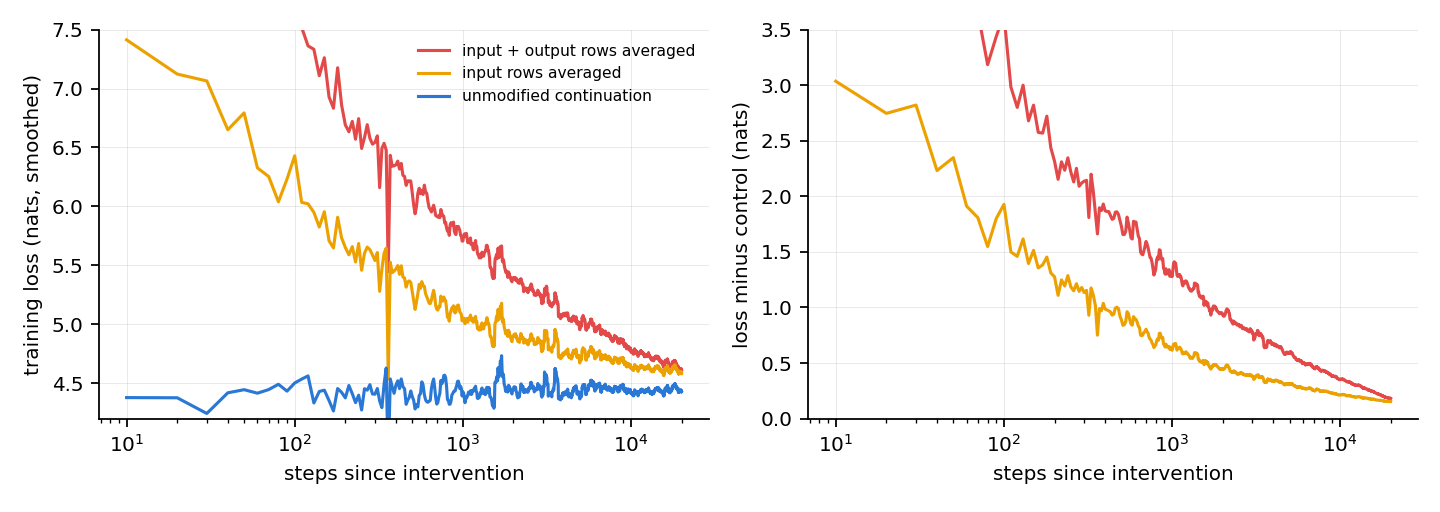
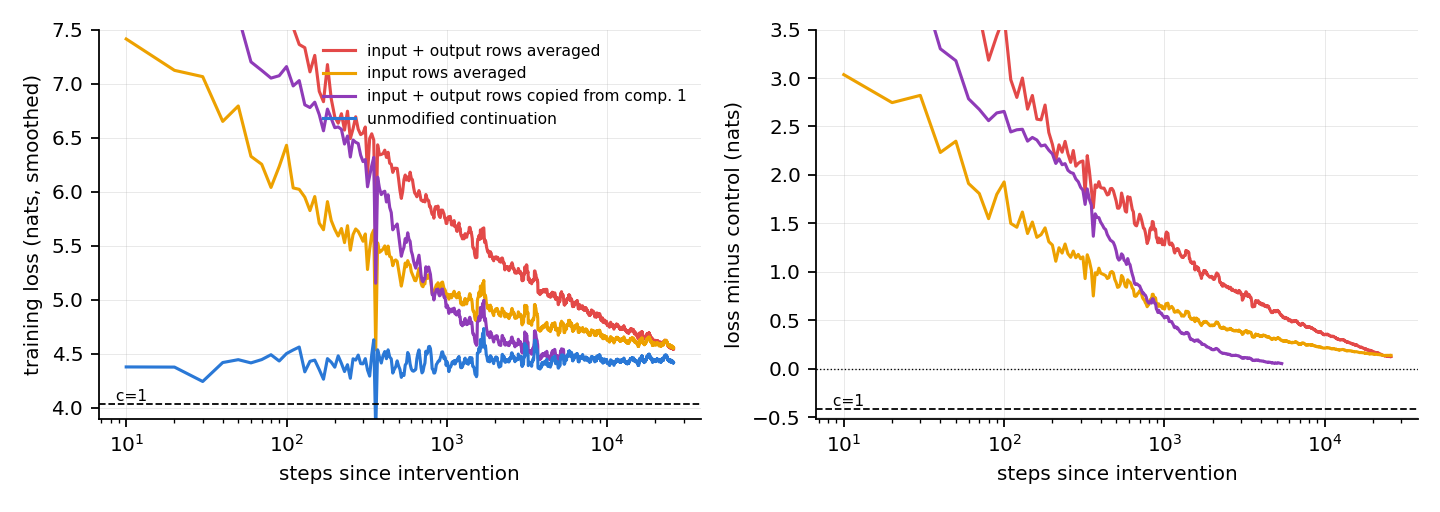
avgemb training-log plot: add a c=1 reference line
Placed from the formal-eval val-loss difference at 1M steps (c=1 minus the source c=8 run), offset from the control, since training loss and val loss are not directly comparable.

diff --git a/experiment/avgemb/plot_avgemb_trainlog.py b/experiment/avgemb/plot_avgemb_trainlog.py
@@ -60,11 +60,28 @@ def main():
         axes[0].plot(steps, smooth_log(steps, y), color=col, lw=1.4, label=label)
         if a != "control":
             axes[1].plot(steps, smooth_log(steps, y - yc), color=col, lw=1.4, label=label)
+    # c=1 reference. Training loss is not comparable to c=1's val loss directly, so use
+    # the formal-eval val-loss difference at 1M steps (c=1 minus the source c=8 run) as
+    # an offset from the control.
+    import json, sys as _sys
+    main_dir = Path("/mnt/pccfs2/backed_up/vin/dev/translation-compression/experiment")
+    _sys.path.insert(0, str(main_dir))
+    from _run_paths import C1_BASELINE_8_256
+    M = json.loads((main_dir / "val_metrics.json").read_text())
+    def at1m(k, c):
+        r = M[k]; i = r["checkpoints"].index(1_000_000)
+        return float(np.mean([r["metrics"][f"loss_compartment_{j}"][i] for j in range(c)]))
+    dc1 = at1m(C1_BASELINE_8_256, 1) - at1m("8-256-reseed/8-256-n8-tr01comp-s66", 8)
+    cs, _, cy = series["control"]
+    ctrl_level = np.mean(smooth_log(cs, cy)[cs >= cs[-1] - 5000])
+    for ax, y in ((axes[0], ctrl_level + dc1), (axes[1], dc1)):
+        ax.axhline(y, color="black", lw=0.8, ls="--")
+        ax.text(0.02, y, " c=1", transform=ax.get_yaxis_transform(), va="bottom", fontsize=7)
     axes[0].set_xscale("log")
-    axes[0].set_ylim(4.2, 7.5)
+    axes[0].set_ylim(3.9, 7.5)
     axes[0].set_ylabel("training loss (nats, smoothed)")
     axes[1].set_xscale("log")
-    axes[1].set_ylim(0, 3.5)
+    axes[1].set_ylim(dc1 - 0.1, 3.5)
     axes[1].axhline(0, color="black", lw=0.6, ls=":")
     axes[1].set_ylabel("loss minus control (nats)")
     for ax in axes:
